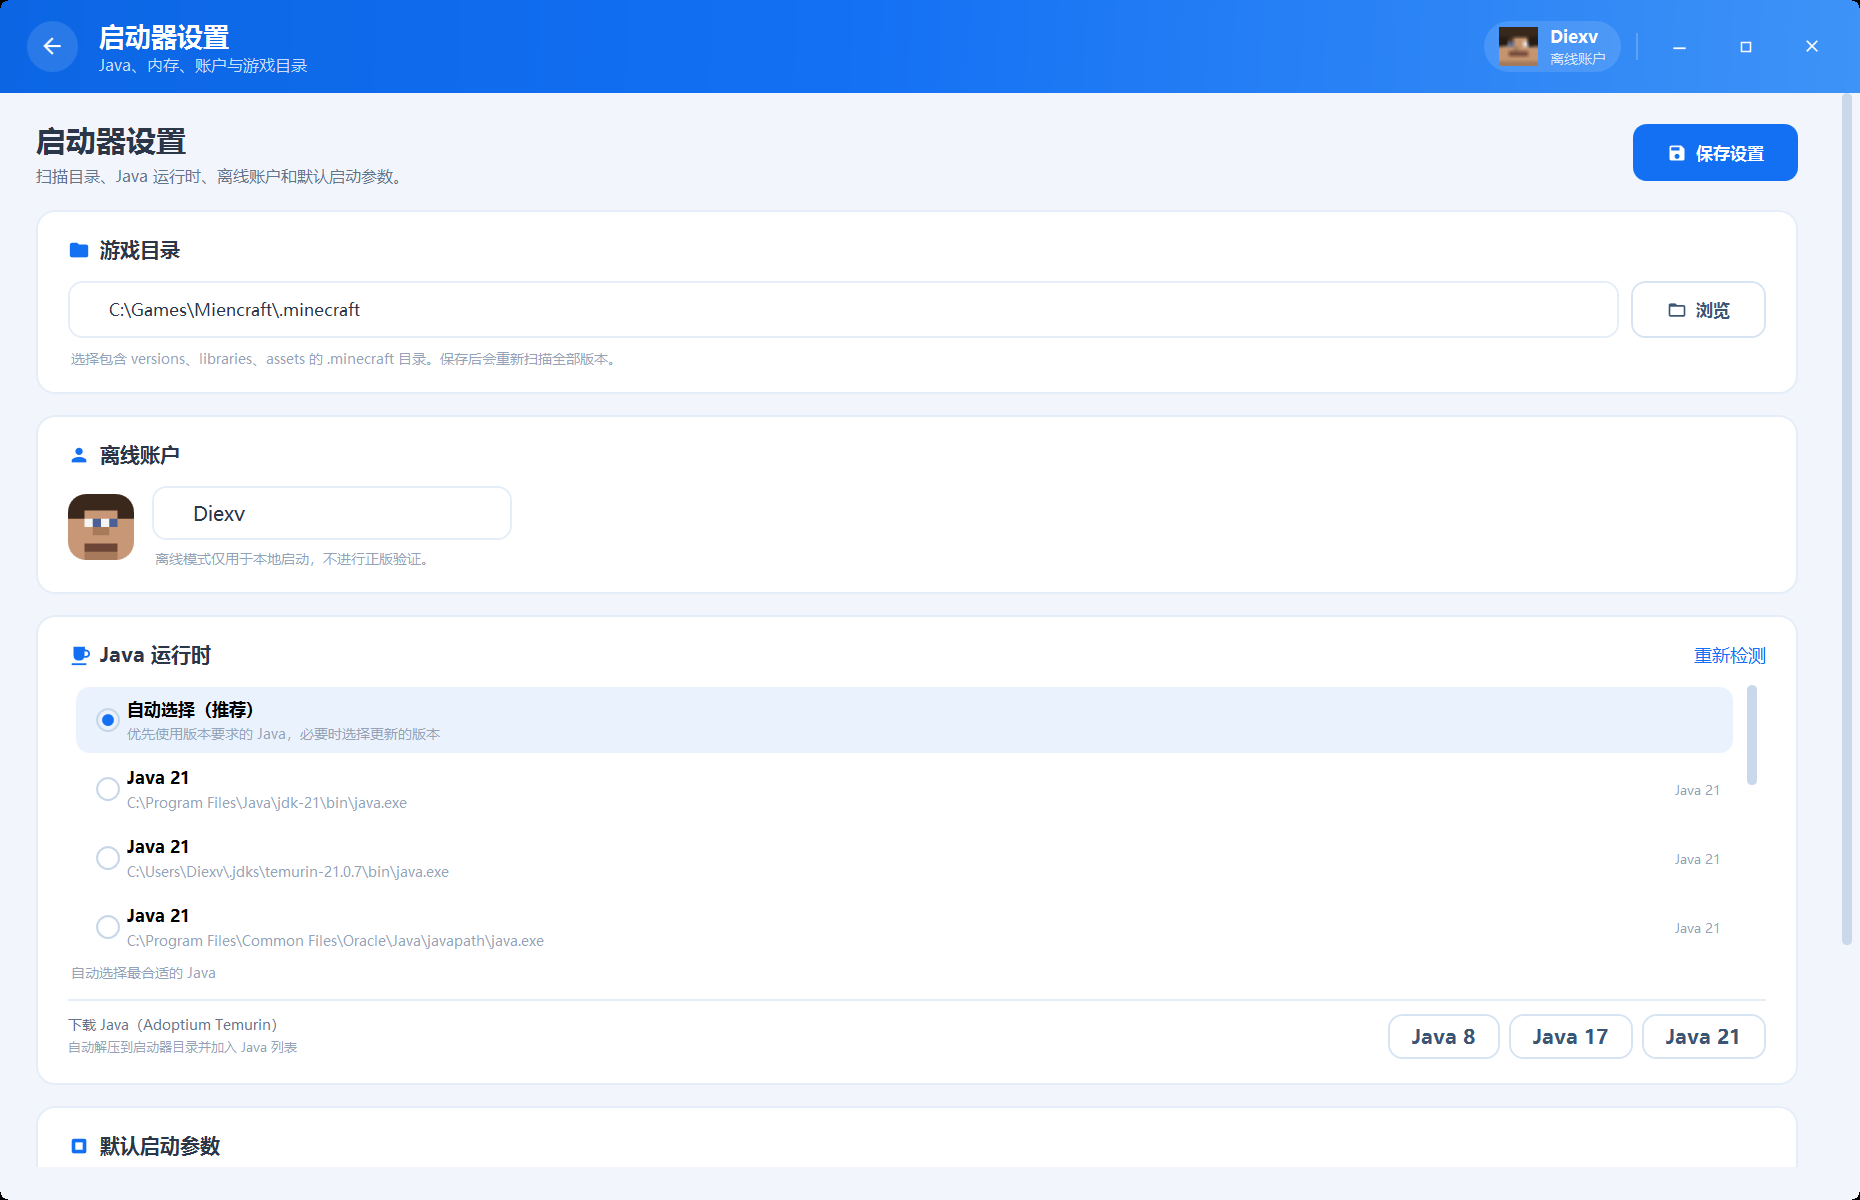
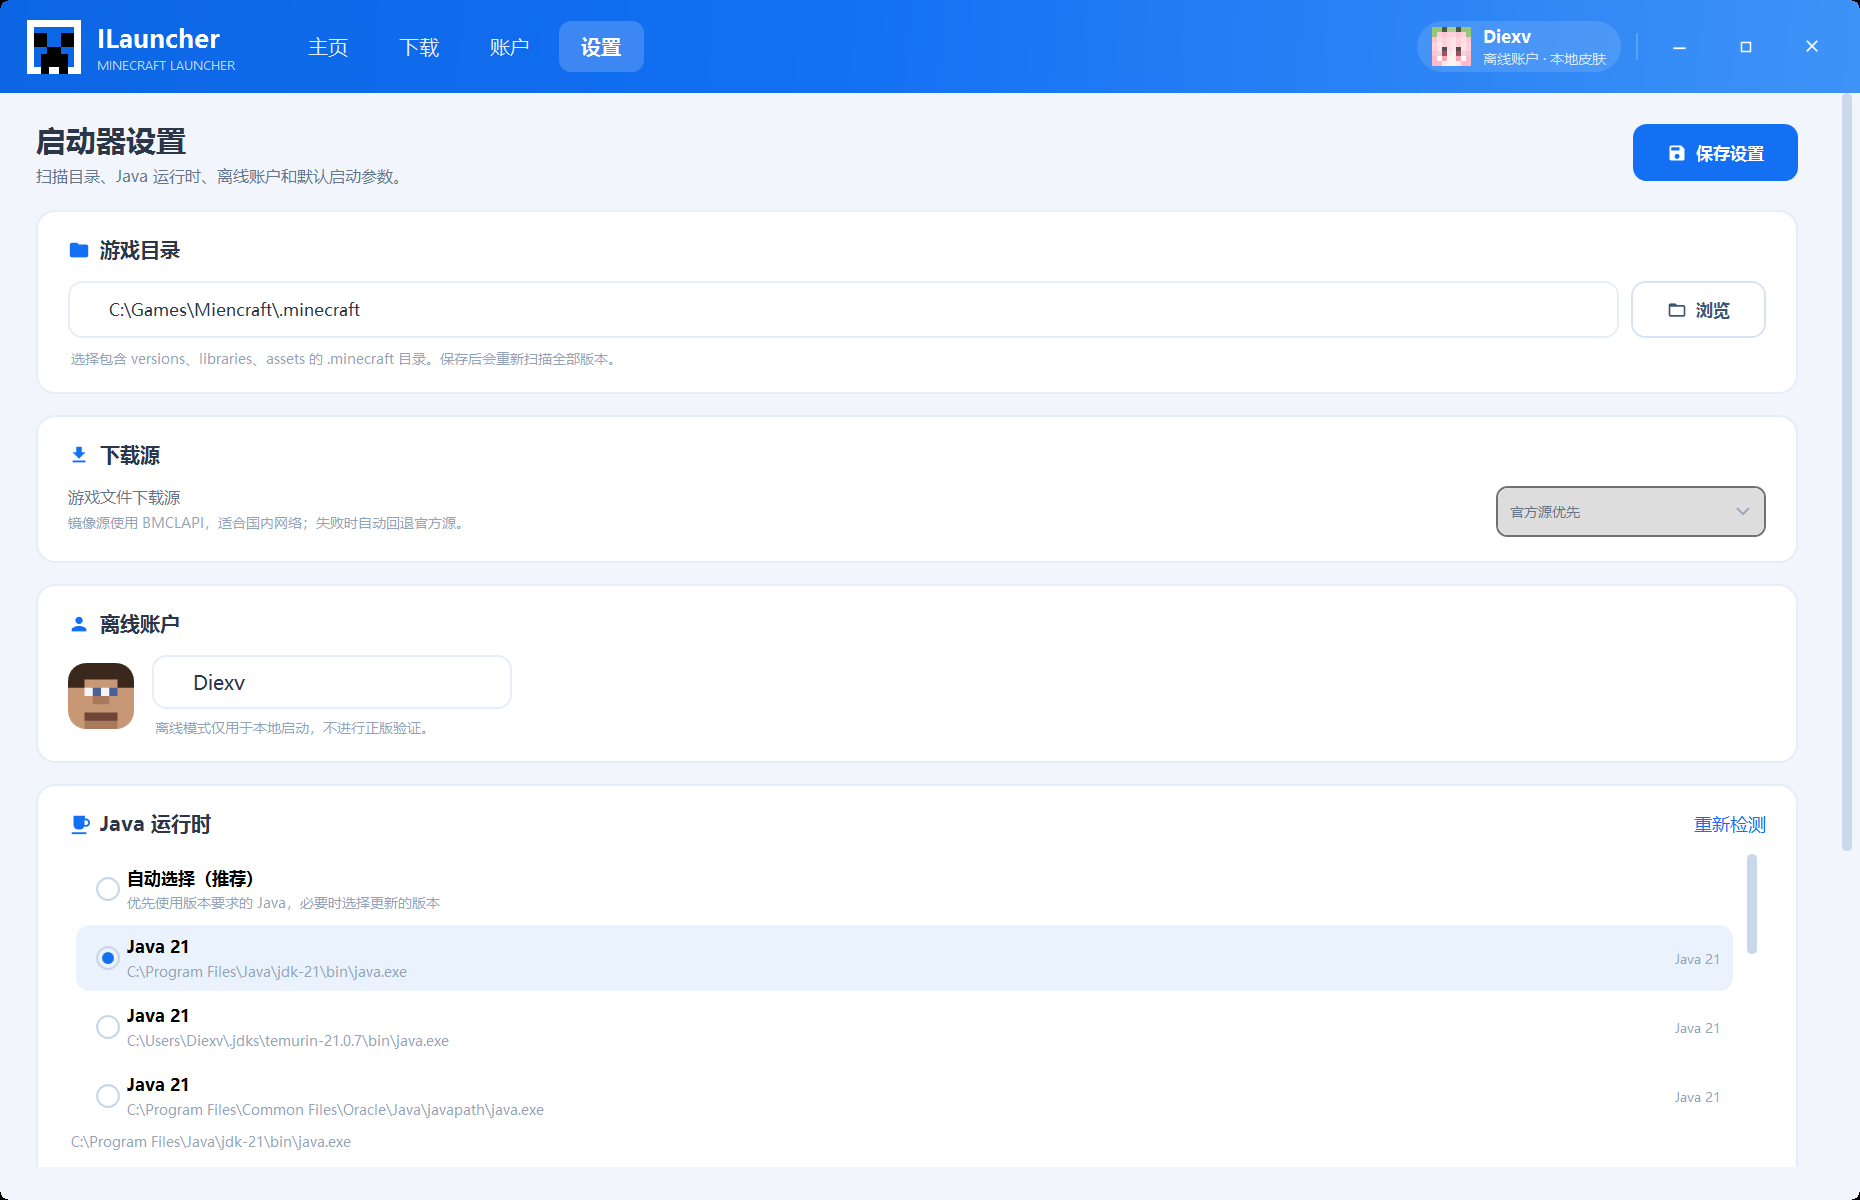
Fix settings Java selection and add download source preference

diff --git a/src/ILauncher/Views/SettingsView.xaml b/src/ILauncher/Views/SettingsView.xaml
@@ -20,7 +20,7 @@
                                Foreground="{StaticResource BrushTextSecondary}" Margin="0,4,0,0" />
                 </StackPanel>
                 <Button Style="{StaticResource PrimaryButton}" Height="38" MinWidth="110" HorizontalAlignment="Right"
-                        VerticalAlignment="Center" Command="{Binding SaveCommand}">
+                        VerticalAlignment="Center" Command="{Binding SaveCommand}" AutomationProperties.Name="保存设置">
                     <StackPanel Orientation="Horizontal">
                         <controls:Icon Data="{StaticResource IconSave}" Fill="#FFFFFFFF" Width="13" Height="13" />
                         <TextBlock Text="保存设置" Margin="6,0,0,0" FontSize="11.5" />
@@ -52,6 +52,37 @@
                     </Grid>
                     <TextBlock Text="选择包含 versions、libraries、assets 的 .minecraft 目录。保存后会重新扫描全部版本。"
                                FontSize="9" Foreground="{StaticResource BrushTextMuted}" Margin="2,7,0,0" />
+                </StackPanel>
+            </Border>
+
+            <!-- Download source -->
+            <Border Style="{StaticResource Card}" Padding="20,16" Margin="0,14,0,0">
+                <StackPanel>
+                    <StackPanel Orientation="Horizontal" Margin="0,0,0,12">
+                        <controls:Icon Data="{StaticResource IconDownload}" Fill="{StaticResource BrushAccent}" Width="15" Height="15" />
+                        <TextBlock Text="下载源" FontSize="13" FontWeight="SemiBold" Margin="7,0,0,0" />
+                    </StackPanel>
+                    <Grid>
+                        <Grid.ColumnDefinitions>
+                            <ColumnDefinition Width="*" />
+                            <ColumnDefinition Width="Auto" />
+                        </Grid.ColumnDefinitions>
+                        <StackPanel>
+                            <TextBlock Text="游戏文件下载源" FontSize="10.5" Foreground="{StaticResource BrushTextSecondary}" />
+                            <TextBlock Text="镜像源使用 BMCLAPI，适合国内网络；失败时自动回退官方源。"
+                                       FontSize="9" Foreground="{StaticResource BrushTextMuted}" Margin="0,3,0,0" />
+                        </StackPanel>
+                        <ComboBox Grid.Column="1" Style="{StaticResource FilterCombo}" Width="180" Height="34"
+                                  ItemsSource="{Binding DownloadSources}"
+                                  SelectedItem="{Binding SelectedDownloadSource, Mode=TwoWay}"
+                                  AutomationProperties.Name="游戏文件下载源">
+                            <ComboBox.ItemTemplate>
+                                <DataTemplate>
+                                    <TextBlock Text="{Binding}" />
+                                </DataTemplate>
+                            </ComboBox.ItemTemplate>
+                        </ComboBox>
+                    </Grid>
                 </StackPanel>
             </Border>
 
@@ -93,7 +124,7 @@
                         <Button Style="{StaticResource LinkButton}" Content="重新检测" HorizontalAlignment="Right"
                                 Command="{Binding RefreshJavaCommand}" />
                     </Grid>
-                    <ListBox ItemsSource="{Binding JavaOptions}" SelectedItem="{Binding SelectedJava, Mode=TwoWay}"
+                    <ListBox x:Name="JavaList" ItemsSource="{Binding JavaOptions}" SelectedItem="{Binding SelectedJava, Mode=TwoWay}" PreviewMouseLeftButtonDown="JavaList_PreviewMouseLeftButtonDown"
                              Style="{StaticResource CleanListBox}" MaxHeight="180">
                         <ListBox.ItemTemplate>
                             <DataTemplate>
@@ -198,3 +229,4 @@
         </StackPanel>
     </ScrollViewer>
 </UserControl>
+

diff --git a/src/ILauncher/Views/InstanceSettingsView.xaml b/src/ILauncher/Views/InstanceSettingsView.xaml
@@ -51,7 +51,7 @@
                         </StackPanel>
                     </Grid>
 
-                    <ListBox ItemsSource="{Binding JavaOptions}" SelectedItem="{Binding SelectedJava, Mode=TwoWay}"
+                    <ListBox x:Name="JavaList" ItemsSource="{Binding JavaOptions}" SelectedItem="{Binding SelectedJava, Mode=TwoWay}" PreviewMouseLeftButtonDown="JavaList_PreviewMouseLeftButtonDown"
                              Style="{StaticResource CleanListBox}" MaxHeight="190">
                         <ListBox.ItemTemplate>
                             <DataTemplate>
@@ -185,3 +185,4 @@
         </StackPanel>
     </ScrollViewer>
 </UserControl>
+

diff --git a/src/ILauncher.Core/Services/MojangGameService.cs b/src/ILauncher.Core/Services/MojangGameService.cs
@@ -22,12 +22,19 @@ public sealed record RemoteVersion(
 
 public sealed class MojangGameService
 {
-    private const string ManifestUrl = "https://piston-meta.mojang.com/mc/game/version_manifest_v2.json";
-    private const string AssetBaseUrl = "https://resources.download.minecraft.net";
+    private const string OfficialManifestUrl = "https://piston-meta.mojang.com/mc/game/version_manifest_v2.json";
 
     public async Task<List<RemoteVersion>> GetVersionsAsync(CancellationToken cancellationToken = default)
     {
-        var json = await DownloadHelper.GetStringAsync(ManifestUrl, cancellationToken);
+        string json;
+        try
+        {
+            json = await DownloadHelper.GetStringAsync(DownloadSourceConfig.ManifestUrl, cancellationToken);
+        }
+        catch when (DownloadSourceConfig.PreferMirror)
+        {
+            json = await DownloadHelper.GetStringAsync(OfficialManifestUrl, cancellationToken);
+        }
         using var document = JsonDocument.Parse(json);
         var result = new List<RemoteVersion>();
         if (!document.RootElement.TryGetProperty("versions", out var versions))
@@ -63,13 +70,15 @@ public sealed class MojangGameService
         Directory.CreateDirectory(versionDirectory);
         var versionJsonPath = Path.Combine(versionDirectory, version.Id + ".json");
 
-        await DownloadHelper.DownloadFileAsync(version.Url, versionJsonPath, null, cancellationToken);
+        await DownloadFileWithFallbackAsync(DownloadSourceConfig.VersionJson(version.Id, version.Url), version.Url,
+            versionJsonPath, cancellationToken);
         var metadata = VersionMetadata.Parse(versionJsonPath);
         var clientJarPath = Path.Combine(versionDirectory, version.Id + ".jar");
         if (metadata.Client?.Url is { Length: > 0 } clientUrl)
         {
             progress?.Invoke(new DownloadProgress { Phase = "客户端", Message = "下载客户端 jar…", Percent = 2 });
-            await DownloadHelper.DownloadFileAsync(clientUrl, clientJarPath, null, cancellationToken);
+            await DownloadFileWithFallbackAsync(DownloadSourceConfig.ClientJar(version.Id, clientUrl), clientUrl,
+                clientJarPath, cancellationToken);
         }
 
         var files = new List<(string Url, string Path, string Name)>();
@@ -86,7 +95,7 @@ public sealed class MojangGameService
                 continue;
             }
 
-            files.Add((url, Path.Combine(rootDirectory, "libraries", path.Replace('/', Path.DirectorySeparatorChar)),
+            files.Add((DownloadSourceConfig.Library(url), Path.Combine(rootDirectory, "libraries", path.Replace('/', Path.DirectorySeparatorChar)),
                 library.Name));
         }
 
@@ -117,7 +126,7 @@ public sealed class MojangGameService
                             }
 
                             var target = Path.Combine(assetsRoot, "objects", hash[..2], hash);
-                            files.Add(($"{AssetBaseUrl}/{hash[..2]}/{hash}", target, property.Name));
+                            files.Add((DownloadSourceConfig.AssetObject(hash), target, property.Name));
                         }
                     }
                 }
@@ -135,6 +144,19 @@ public sealed class MojangGameService
 
         await DownloadFilesAsync(files, progress, cancellationToken);
         progress?.Invoke(new DownloadProgress { Phase = "完成", Message = $"已安装 {version.Id}", Percent = 100 });
+    }
+
+    private static async Task DownloadFileWithFallbackAsync(string primaryUrl, string fallbackUrl,
+        string destination, CancellationToken cancellationToken)
+    {
+        try
+        {
+            await DownloadHelper.DownloadFileAsync(primaryUrl, destination, null, cancellationToken);
+        }
+        catch when (!string.Equals(primaryUrl, fallbackUrl, StringComparison.OrdinalIgnoreCase))
+        {
+            await DownloadHelper.DownloadFileAsync(fallbackUrl, destination, null, cancellationToken);
+        }
     }
 
     private static async Task DownloadFilesAsync(List<(string Url, string Path, string Name)> files,

diff --git a/src/ILauncher/ViewModels/SettingsViewModel.cs b/src/ILauncher/ViewModels/SettingsViewModel.cs
@@ -24,6 +24,7 @@ public sealed class SettingsViewModel : ObservableObject
     private string _javaSummary = "跟随系统自动选择";
     private bool _isDownloadingJava;
     private string _javaDownloadText = "";
+    private string _selectedDownloadSource;
 
     public SettingsViewModel(
         SettingsService settings,
@@ -42,6 +43,11 @@ public sealed class SettingsViewModel : ObservableObject
         _width = settings.Settings.WindowWidth;
         _height = settings.Settings.WindowHeight;
         _closeLauncher = settings.Settings.CloseLauncherOnGameStart;
+        _selectedDownloadSource = string.Equals(settings.Settings.DownloadSource, "mirror",
+            StringComparison.OrdinalIgnoreCase)
+            ? "镜像源优先"
+            : "官方源优先";
+        DownloadSources = new[] { "官方源优先", "镜像源优先" };
 
         JavaOptions = new ObservableCollection<JavaOption>();
         AutoJava = new JavaOption
@@ -72,6 +78,21 @@ public sealed class SettingsViewModel : ObservableObject
 
     public ObservableCollection<JavaOption> JavaOptions { get; }
     public JavaOption AutoJava { get; }
+    public IReadOnlyList<string> DownloadSources { get; }
+
+    public string SelectedDownloadSource
+    {
+        get => _selectedDownloadSource;
+        set
+        {
+            if (!SetProperty(ref _selectedDownloadSource, value) || string.IsNullOrWhiteSpace(value))
+            {
+                return;
+            }
+
+            DownloadSourceConfig.PreferMirror = string.Equals(value, "镜像源优先", StringComparison.Ordinal);
+        }
+    }
 
     public JavaOption? SelectedJava
     {
@@ -268,6 +289,7 @@ public sealed class SettingsViewModel : ObservableObject
         _settings.Settings.WindowHeight = Math.Clamp(Height, 240, 4320);
         _settings.Settings.JavaPath = SelectedJava is { IsAuto: false } ? SelectedJava.Path : "";
         _settings.Settings.CloseLauncherOnGameStart = CloseLauncher;
+        _settings.Settings.DownloadSource = SelectedDownloadSource == "镜像源优先" ? "mirror" : "official";
         _settings.Save();
 
         _toast("启动器设置已保存。", false);

diff --git a/src/ILauncher.Core/Services/DownloadSourceConfig.cs b/src/ILauncher.Core/Services/DownloadSourceConfig.cs
@@ -1,0 +1,39 @@
+namespace ILauncher.Core.Services;
+
+/// <summary>
+/// Selects between Mojang's official CDN and the BMCLAPI mirror for
+/// Minecraft game files. Modrinth and loader metadata remain on their own
+/// official endpoints.
+/// </summary>
+public static class DownloadSourceConfig
+{
+    public const string MirrorBase = "https://bmclapi2.bangbang93.com";
+
+    public static bool PreferMirror { get; set; }
+
+    public static string ManifestUrl => PreferMirror
+        ? MirrorBase + "/mc/game/version_manifest_v2.json"
+        : "https://piston-meta.mojang.com/mc/game/version_manifest_v2.json";
+
+    public static string VersionJson(string id, string officialUrl)
+        => PreferMirror ? $"{MirrorBase}/version/{Uri.EscapeDataString(id)}/json" : officialUrl;
+
+    public static string ClientJar(string id, string officialUrl)
+        => PreferMirror ? $"{MirrorBase}/version/{Uri.EscapeDataString(id)}/client" : officialUrl;
+
+    public static string Library(string officialUrl)
+    {
+        if (!PreferMirror)
+        {
+            return officialUrl;
+        }
+
+        return officialUrl.Replace("https://libraries.minecraft.net/", MirrorBase + "/maven/",
+            StringComparison.OrdinalIgnoreCase);
+    }
+
+    public static string AssetObject(string hash)
+        => PreferMirror
+            ? $"{MirrorBase}/assets/{hash[..2]}/{hash}"
+            : $"https://resources.download.minecraft.net/{hash[..2]}/{hash}";
+}

diff --git a/src/ILauncher/Views/InstanceSettingsView.xaml.cs b/src/ILauncher/Views/InstanceSettingsView.xaml.cs
@@ -1,4 +1,8 @@
+using System.Windows;
 using System.Windows.Controls;
+using System.Windows.Input;
+using System.Windows.Media;
+using ILauncher.ViewModels;
 
 namespace ILauncher.Views;
 
@@ -7,5 +11,34 @@ public partial class InstanceSettingsView : UserControl
     public InstanceSettingsView()
     {
         InitializeComponent();
+    }
+
+    private void JavaList_PreviewMouseLeftButtonDown(object sender, MouseButtonEventArgs e)
+    {
+        if (sender is ListBox list)
+        {
+            var item = FindAncestor<ListBoxItem>(e.OriginalSource as DependencyObject);
+            if (item?.DataContext is JavaOption option)
+            {
+                list.SelectedItem = option;
+            }
+        }
+    }
+
+    private static T? FindAncestor<T>(DependencyObject? current) where T : DependencyObject
+    {
+        while (current != null)
+        {
+            if (current is T match)
+            {
+                return match;
+            }
+
+            current = current is Visual or System.Windows.Media.Media3D.Visual3D
+                ? VisualTreeHelper.GetParent(current)
+                : LogicalTreeHelper.GetParent(current);
+        }
+
+        return null;
     }
 }

diff --git a/src/ILauncher.Core/Services/SettingsService.cs b/src/ILauncher.Core/Services/SettingsService.cs
@@ -26,6 +26,7 @@ public sealed class LauncherSettings
     public string JavaPath { get; set; } = "";
     public int MemoryMb { get; set; } = 4096;
     public int HomeVersionsPerRow { get; set; } = 3;
+    public string DownloadSource { get; set; } = "official";
     public int WindowWidth { get; set; } = 1280;
     public int WindowHeight { get; set; } = 720;
     public string LastInstance { get; set; } = "";
@@ -58,6 +59,8 @@ public sealed class SettingsService
         AppPaths.EnsureCreated();
         Load();
         ApplyClientIdFromEnvironment();
+        DownloadSourceConfig.PreferMirror = string.Equals(Settings.DownloadSource, "mirror",
+            StringComparison.OrdinalIgnoreCase);
     }
 
     private void ApplyClientIdFromEnvironment()
@@ -103,6 +106,8 @@ public sealed class SettingsService
         {
             try
             {
+                DownloadSourceConfig.PreferMirror = string.Equals(Settings.DownloadSource, "mirror",
+                    StringComparison.OrdinalIgnoreCase);
                 AppPaths.EnsureCreated();
                 var json = JsonSerializer.Serialize(Settings, JsonOptions);
                 var temp = AppPaths.SettingsFile + ".tmp";

diff --git a/src/ILauncher/Views/SettingsView.xaml.cs b/src/ILauncher/Views/SettingsView.xaml.cs
@@ -1,4 +1,8 @@
+using System.Windows;
 using System.Windows.Controls;
+using System.Windows.Input;
+using System.Windows.Media;
+using ILauncher.ViewModels;
 
 namespace ILauncher.Views;
 
@@ -7,5 +11,34 @@ public partial class SettingsView : UserControl
     public SettingsView()
     {
         InitializeComponent();
+    }
+
+    private void JavaList_PreviewMouseLeftButtonDown(object sender, MouseButtonEventArgs e)
+    {
+        if (sender is ListBox list)
+        {
+            var item = FindAncestor<ListBoxItem>(e.OriginalSource as DependencyObject);
+            if (item?.DataContext is JavaOption option)
+            {
+                list.SelectedItem = option;
+            }
+        }
+    }
+
+    private static T? FindAncestor<T>(DependencyObject? current) where T : DependencyObject
+    {
+        while (current != null)
+        {
+            if (current is T match)
+            {
+                return match;
+            }
+
+            current = current is Visual or System.Windows.Media.Media3D.Visual3D
+                ? VisualTreeHelper.GetParent(current)
+                : LogicalTreeHelper.GetParent(current);
+        }
+
+        return null;
     }
 }

diff --git a/src/ILauncher/ViewModels/MainViewModel.cs b/src/ILauncher/ViewModels/MainViewModel.cs
@@ -632,6 +632,7 @@ public sealed class MainViewModel : ObservableObject
         IsInstancePage = false;
         IsSettingsPage = false;
         IsAccountPage = false;
+        IsDownloadPage = false;
         HeaderTitle = "";
         HeaderSubtitle = "";
         OnPropertyChanged(nameof(ShowBack));

diff --git a/README.md b/README.md
@@ -166,8 +166,9 @@ $env:MS_CLIENT_ID = "你的 Azure Application (client) ID"
 
 ![启动器设置](docs/screenshots/settings-global.png)
 
-- Minecraft 目录、离线用户名、Java 选择、默认内存、游戏窗口大小、启动后最小化。
-- Java 运行时列表、重新检测、Adoptium Java 8/17/21 下载。
+- Minecraft 目录、离线用户名、Java 选择、下载源、默认内存、游戏窗口大小、启动后最小化。
+- Java 运行时列表、重新检测、Adoptium Java 8/17/21 下载；Java 列表支持直接点击切换。
+- 游戏文件下载源支持 **官方源优先 / 镜像源优先（BMCLAPI）** 切换，镜像失败时回退官方源。
 - 设置保存到 `%APPDATA%\ILauncher\settings.json`。
 
 ## 源码研究
@@ -278,6 +279,8 @@ docs/screenshots/            README 截图
 - 模组安装不会自动解析并安装前置依赖；只安装主文件。
 - Forge/NeoForge 走官方安装器，不保证所有版本都能在无界面模式下成功。
 - 启动器自身更新、主题/语言切换等非 Minecraft 功能未实现。
+
+
 
 
 
